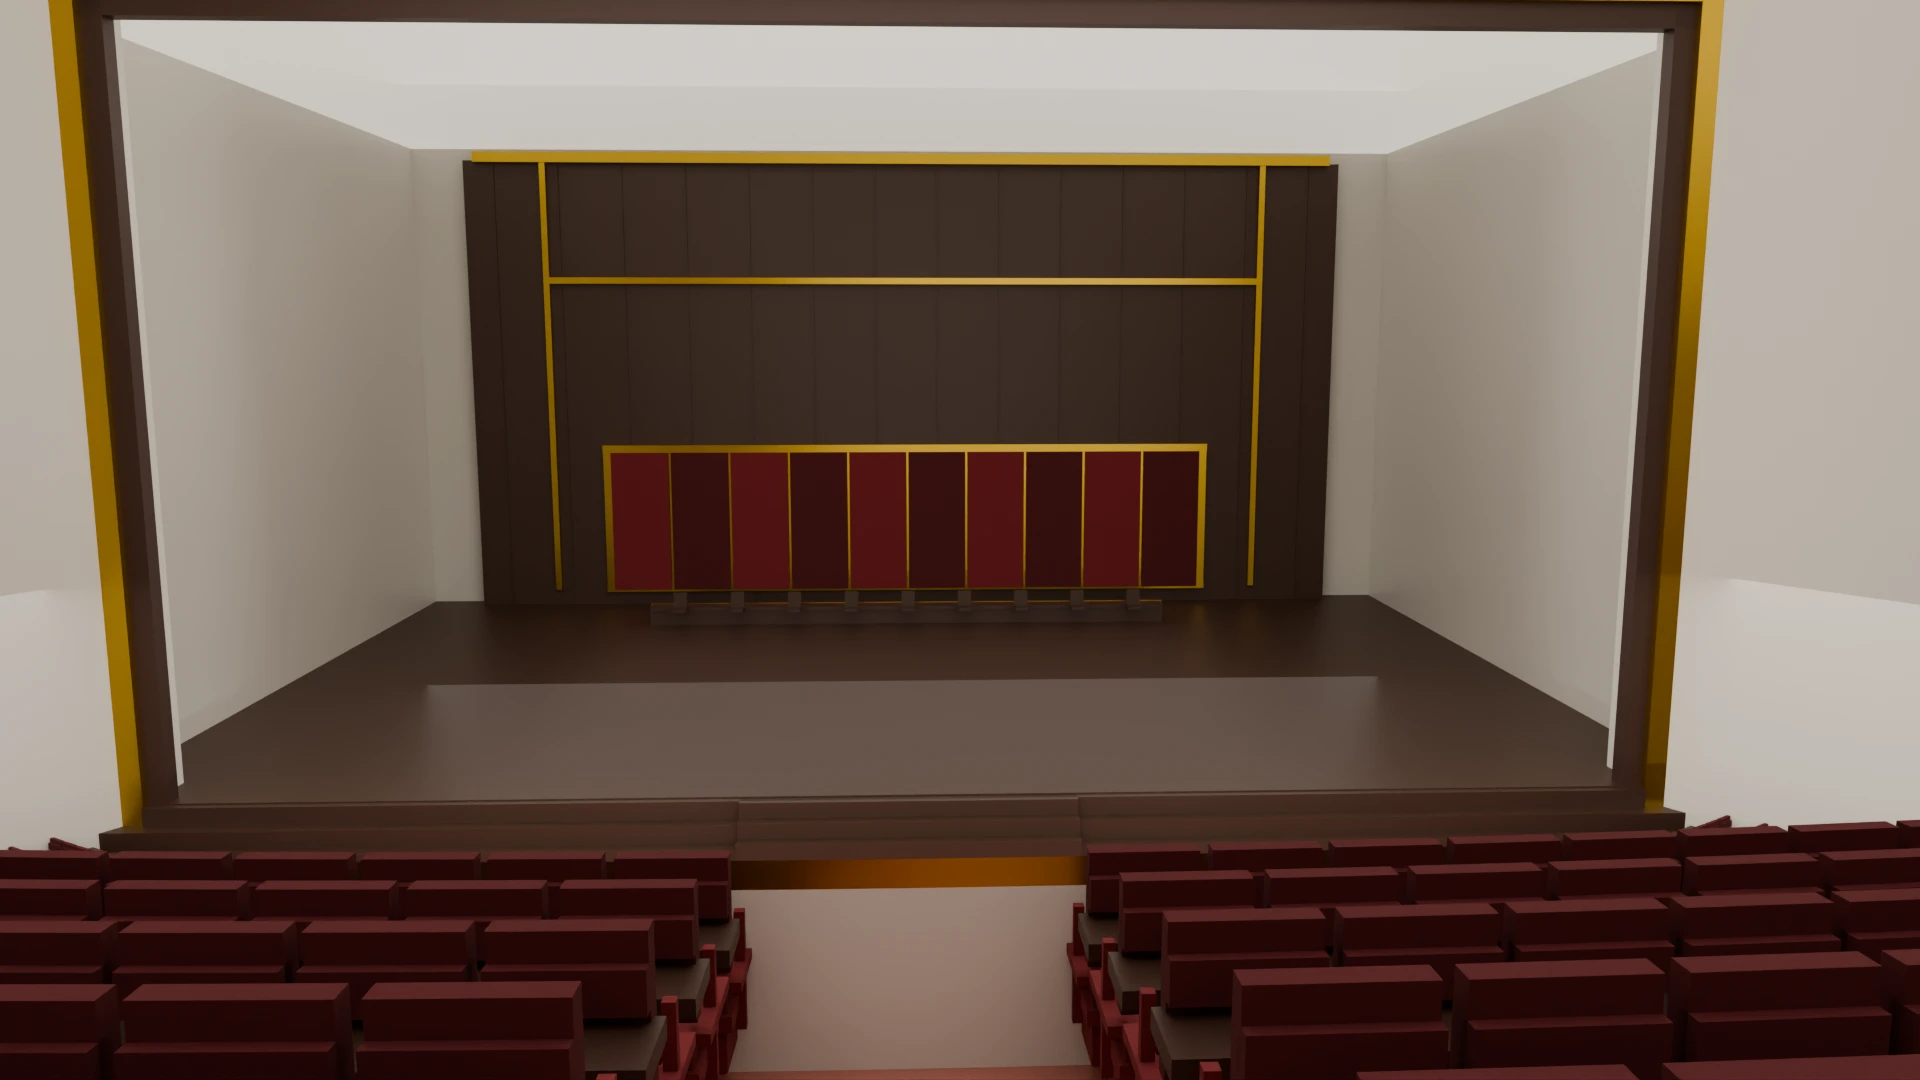
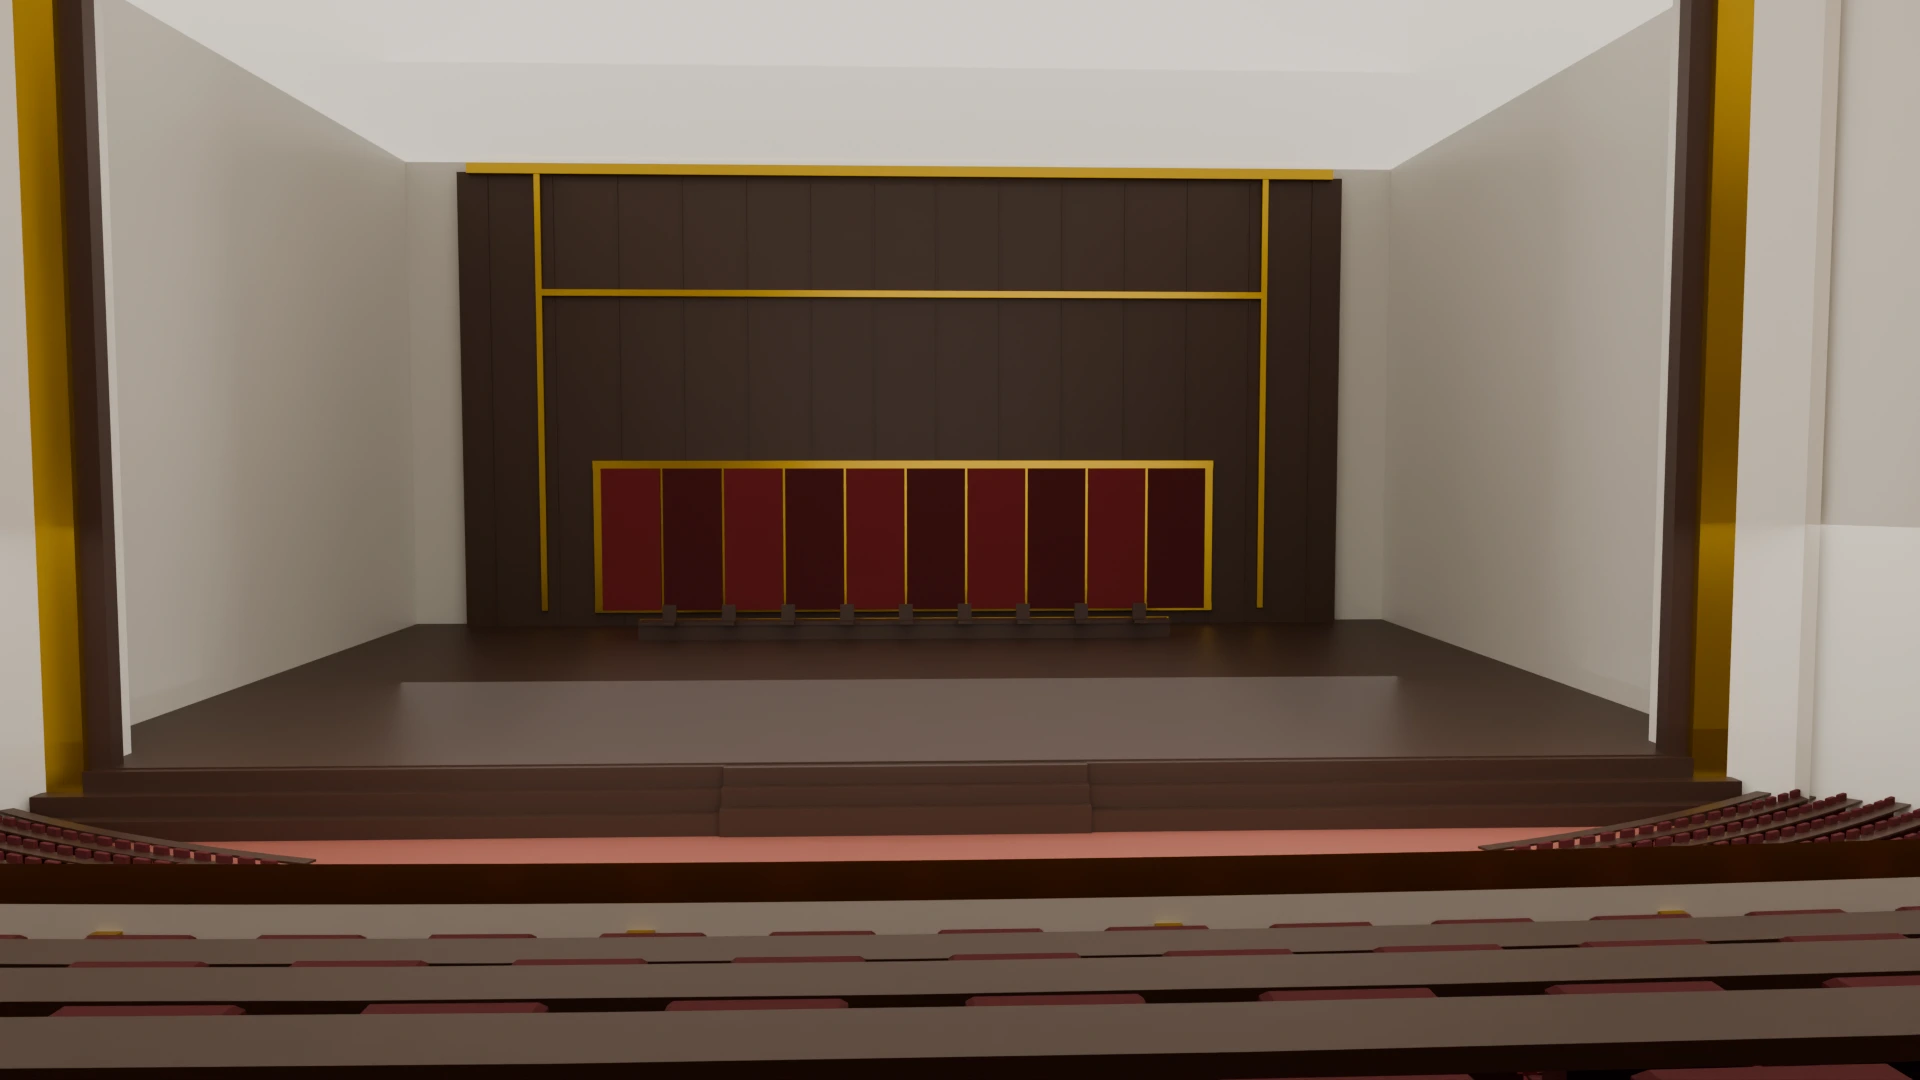
feat(hall): 二层/三层坐姿正式出图（Cycles 1920x1080, 128 spp）；机位表眼高改回 9.30/19.93

diff --git a/CHANGELOG.md b/CHANGELOG.md
@@ -2,6 +2,10 @@
 
 ## [未发布]
 
+### 新增
+
+- **2026-11-29 二层／三层坐姿正式出图（Cycles，1920×1080 / 128 spp）**：`--only "二层坐姿,三层坐姿"` 只出这两张，单张 **44.8 s／46.1 s**（OptiX + 降噪，全套构建 21 s 另计），产物覆盖 `docs/assets/…·精模·二层坐姿.webp`、`…·精模·三层坐姿.webp`。两张图各自能直接看出三件事：二层（眼高 9.30 m）越过大挑台看台口，池座扇形座席与自己的栏板压在前景；三层（眼高 19.93 m）透过金门套看台口，前景是三层自己的椅背——**椅背朝观众、座面朝舞台**，与 `seat.forward` 的判定一致。另注：主席台背后那道 21 m 高的墙现在是**素木饰面**，因为作者 2026-11-23/24 裁决「浮雕不做了」，`hall_data.EMBLEM.show=False`——不是漏建。`tools/grandhall/README.md` 的机位表把两层眼高从过时的 13.62／22.13 改回 9.30／19.93（三层抬高后未同步）。
+
 ### 变更
 
 - **2026-11-29 `seat.forward` 从 SKIP 转正：朝向由实到顶点反推、写进 manifest、逐样本重算，并用 6 种注入证明它真会红**：①**由来**——本项连着三轮明着 SKIP（「manifest 无朝向字段，猜出来的 PASS 比不查更危险」），而作者 2026-11-28 抓到的「主席团九椅背对观众」正是这类缺陷，账本 A-004 一直 open。②**构建端不再靠注释声明朝向**——`Mesh.box()`／`_stamp()` 改为返回**真正落进网格的顶点质心**，`_facing()` 取「座心 − 靠背心」得 2D 单位朝向（观众席靠背在半径外侧 → 朝扇心；主席团靠背在 −x 侧 → 朝 +x），`dump_manifest()` 新增 `seat_facing{focus, groups[{group, role, aim, n, cos_min/max/mean, samples}]}`，每组按步长抽样 12 座（含首末座）存原始 `(座心x, 座心y, fwd_x, fwd_y, 对齐度)`。`aim` 显式声明这把尺子（`focus`／`audience`），避免下一个人再拿错。③**基准方向各推一次**——观众席对扇心、主席团对**观众厅方向**（由 `HALL.x_rear − PROSCENIUM.x` 的符号定，两个脚本各自从 `hall_data` 现推）。这里踩过一个坑：第一版对主席团也用「背离扇心」，九把平行朝前的椅子只有正中间 cos=−1、其余 −0.68…，**是尺子错不是椅子错**；改成分角色取基准后 9 把全 +1.000。④**断言端不采信它报的数**——`seat_forward(facing)` 逐样本自己重算，查四件事：`|fwd|` 为单位向量（挡零向量）、对齐度 ≥ 0.99、重算值与记录值差 ≤ 0.02、样本落在构建端报的 `[min,max]` 内（防两端口径不同源）。⑤**新增 `tools/audit/selftest.py`（断言自检，7 例 4 s）**——把缺陷注入 manifest 副本并要求目标断言 FAIL：主席团椅背翻到 +x 侧、整套池座模板翻半圈、单座绕轴转 90°、朝向退化成零向量、报告区间被改小、role 与基准不匹配，**6 种注入全部 FAIL、原样 PASS**。一条永远 PASS 的断言比没有更糟，这层就是防这个。⑥**实测**——重建 97 物体 / 1,425,722 面 / 9,949 席 / glb 10.10 MB；断言由「9 过 / 0 败 / 1 SKIP」变为 **10 通过 / 0 失败 / 0 待裁**（观众席 9,949 + 主席团 9 把全部对齐 +1.000，最差余量 +0.010）；账本 A-004、A-001 关闭。⑦**文档**——`tools/audit/README.md` 断言清单补 `tier.overhang`／`seat.module` 并把密度区间与后区空场改到现状，`tools/grandhall/README.md` 第二节写下「朝向是算出来的，别再用注释声明」。

diff --git a/tools/grandhall/README.md b/tools/grandhall/README.md
@@ -158,8 +158,8 @@ py -3 hall_data.py
 | `…·精模·全景自台口.webp` | 自台口望全席：扇形座席、两层挑台、穹顶与灯槽 |
 | `…·精模·主席台立姿.webp` | 主席台台口立姿（眼高 3.0 m、15 mm 广角）回望全席 |
 | `…·精模·主席台俯瞰.webp` | 主席台后部俯瞰观众席 |
-| `…·精模·二层坐姿.webp` | 二层挑台坐姿（眼高 13.62 m）望主席台 |
-| `…·精模·三层坐姿.webp` | 三层挑台坐姿（眼高 22.13 m）望主席台 |
+| `…·精模·二层坐姿.webp` | 二层挑台坐姿（眼高 9.30 m，1920×1080 / 128 spp）望主席台 |
+| `…·精模·三层坐姿.webp` | 三层挑台坐姿（眼高 19.93 m，1920×1080 / 128 spp）望主席台；近景是三层自己的椅背 |
 | `…·精模·池座坐姿.webp` | 池座坐姿（眼高 2.50 m）望主席台与木饰后墙 |
 | `…·精模·仰望穹顶.webp` | 池座仰望：中央金盘、72 道光芒、三环灯槽、满天星、宝相花灯 |
 | `…·精模·中央前厅.webp` | 中央前厅：20 根明柱、井字梁、整面玻璃幕墙与 24 m 玻璃门斗 |
